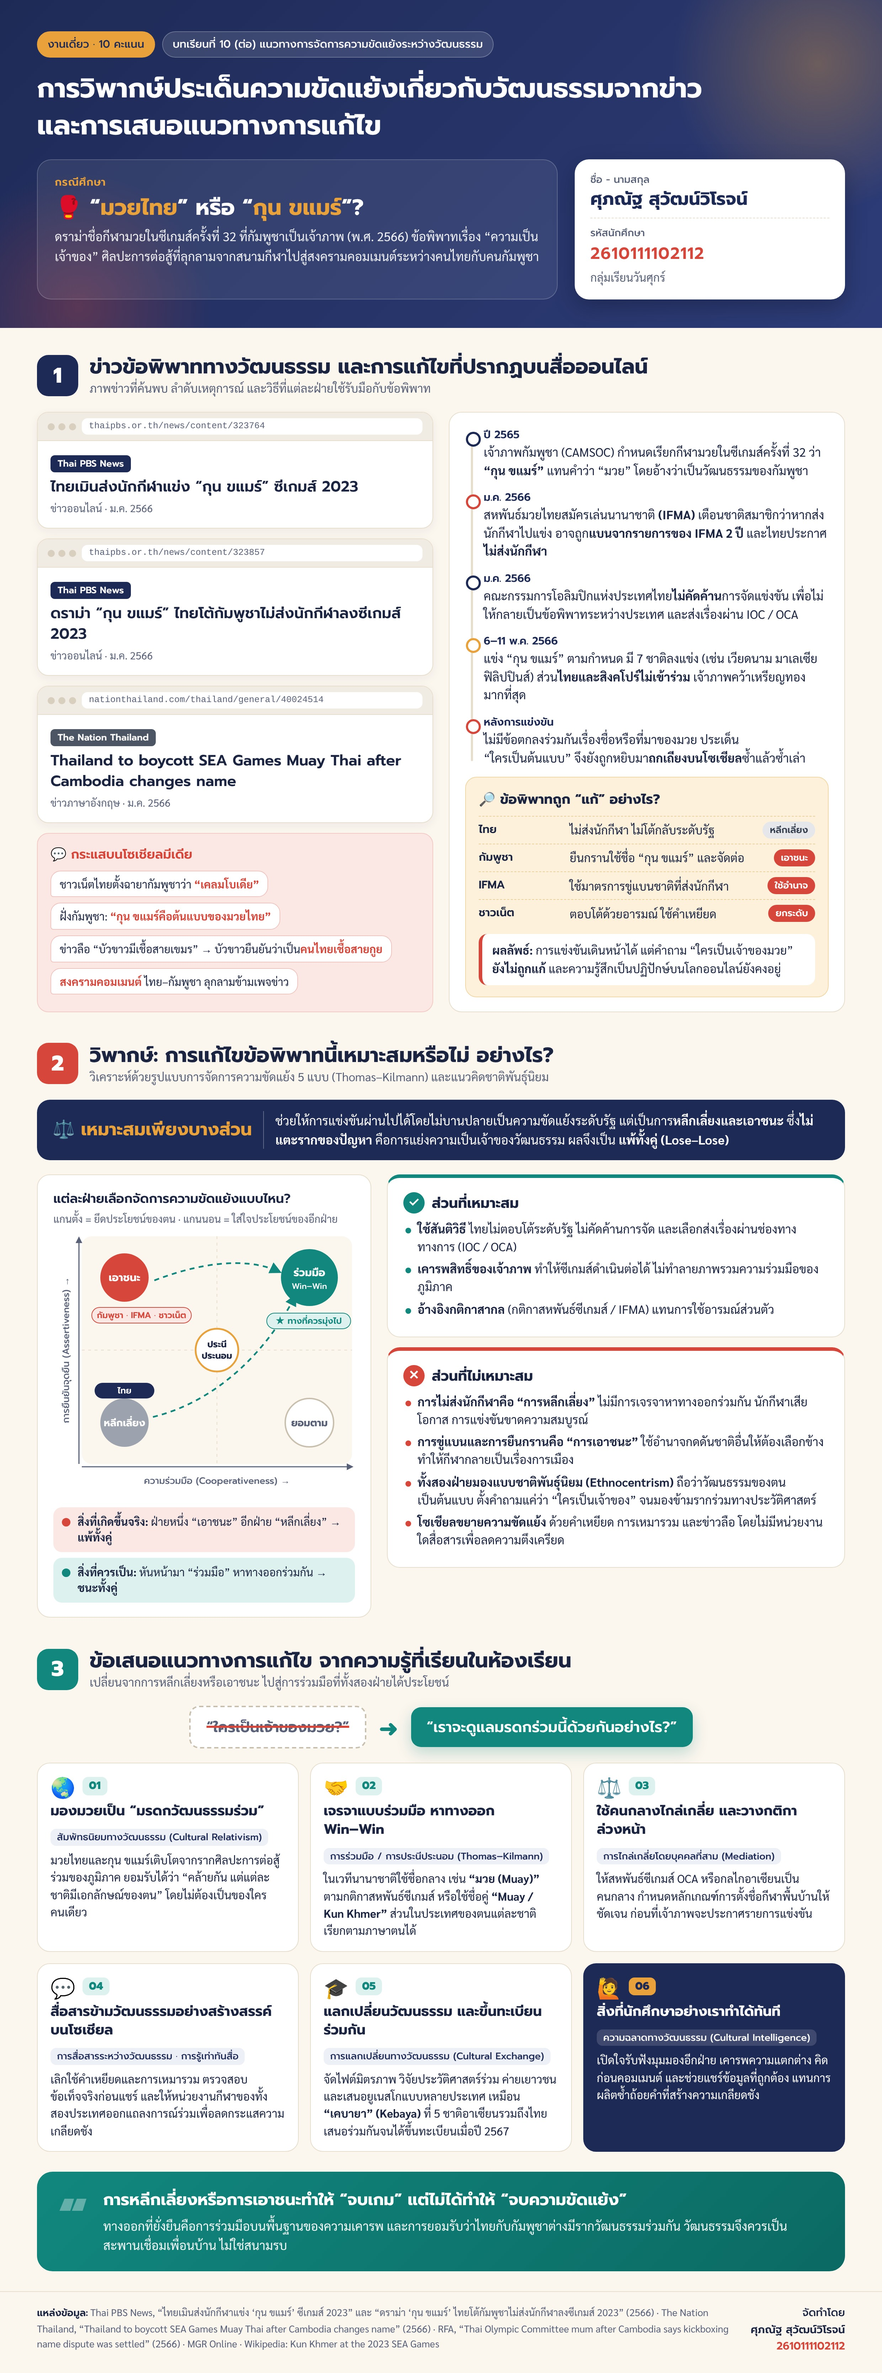
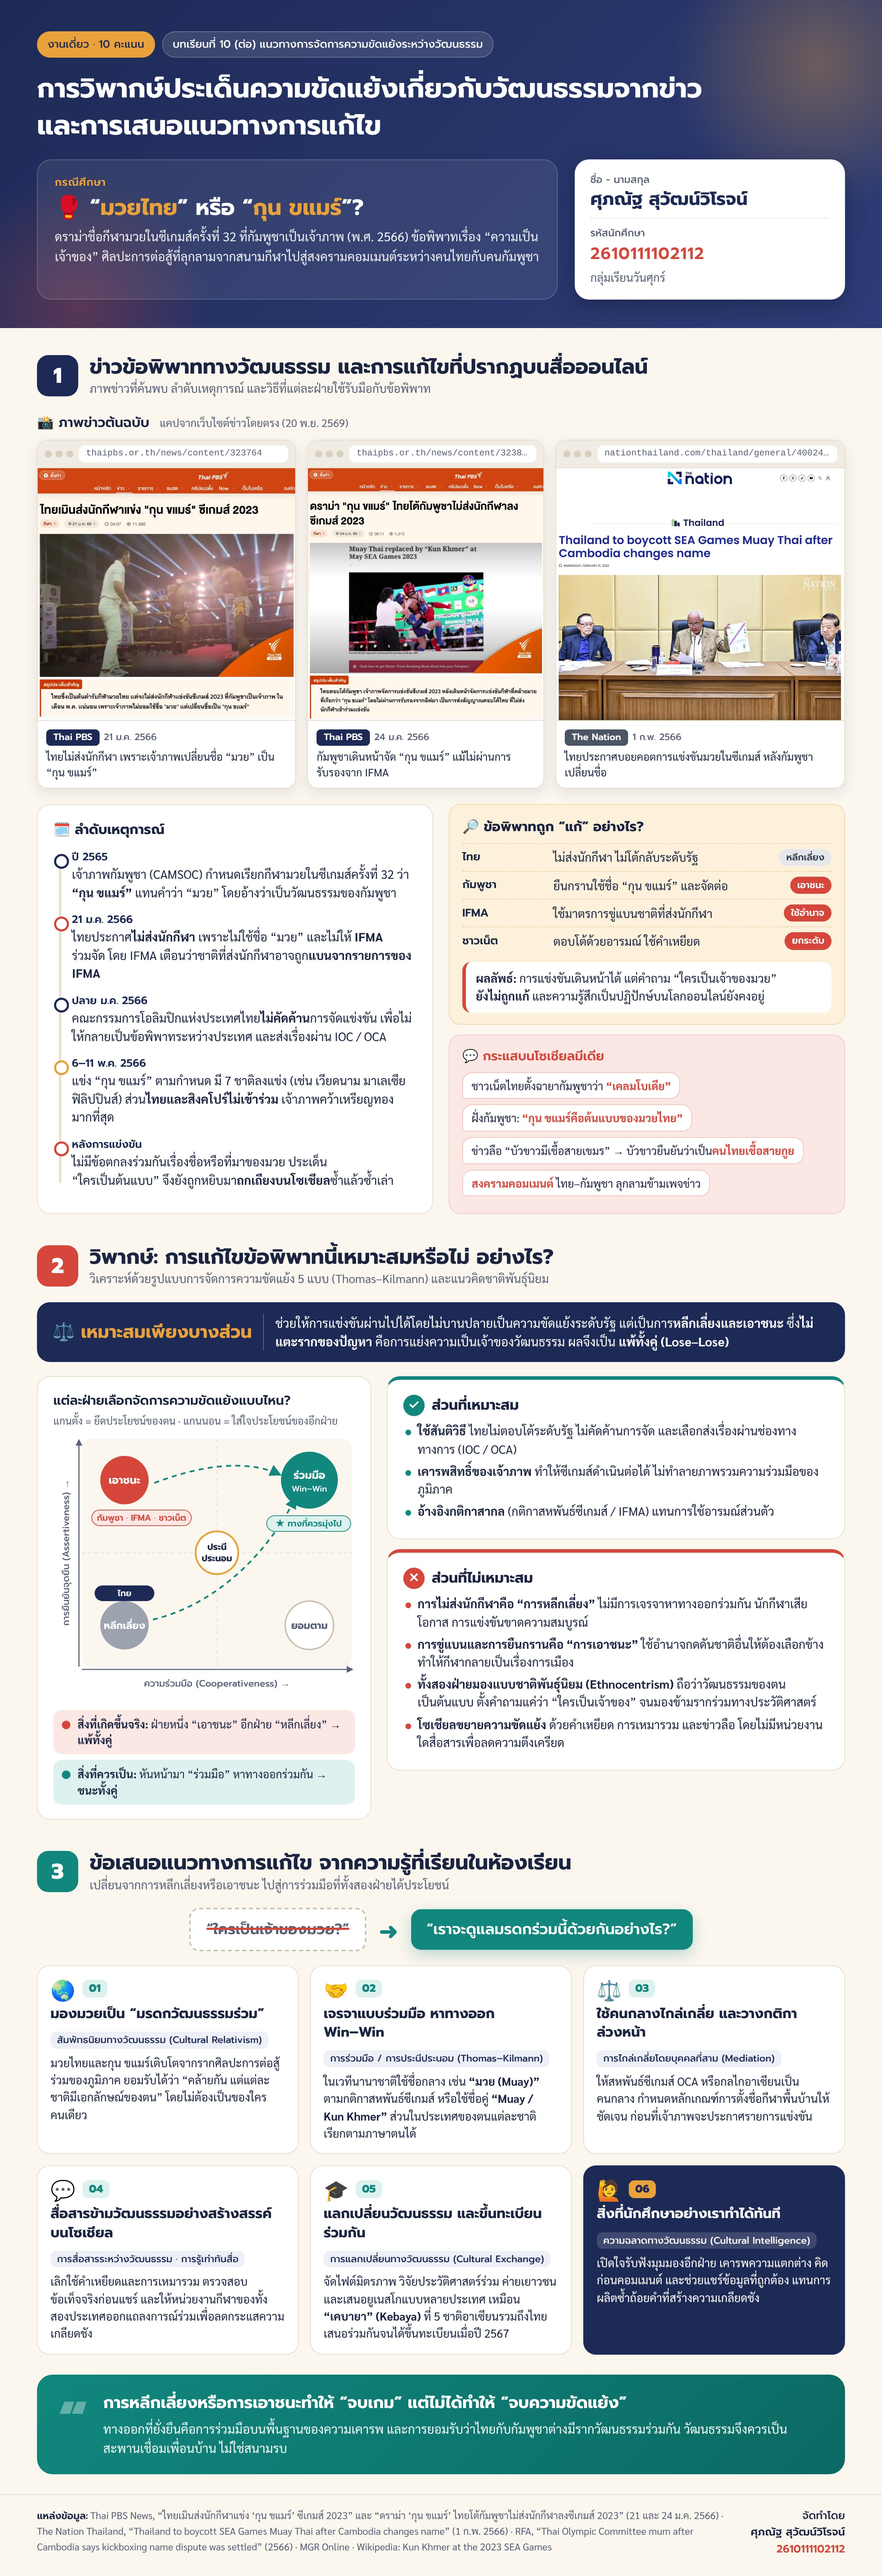
Embed original news screenshots in the infographic
Section 1 now shows real captures of the two Thai PBS articles and The
Nation article (with publication dates) instead of rebuilt headline
cards. The timeline and source dates now match the articles.

Claude-Session: https://claude.ai/code/session_017dBuLpb8sEtwMwFXtjzYeb

diff --git a/culture-conflict-project/index.html b/culture-conflict-project/index.html
@@ -65,6 +65,17 @@
   .bubble{background:#fff;border:1px solid #F0C4BE;border-radius:14px 14px 14px 4px;padding:7px 12px;font-size:15.5px;line-height:1.4}
   .bubble b{color:var(--red)}
 
+  .shots-h{font-family:"Prompt";font-weight:600;font-size:19px;margin-bottom:10px}
+  .shots-h span{font-family:"Sarabun";font-weight:400;font-size:15px;color:var(--muted);margin-left:8px}
+  .shots{display:flex;gap:16px;align-items:flex-start;margin-bottom:22px}
+  .shot{min-width:0;background:#fff;border:1px solid var(--line);border-radius:14px;overflow:hidden;box-shadow:0 6px 18px rgba(27,36,64,.10)}
+  .shot img{display:block;width:100%;height:auto;border-bottom:1px solid var(--line)}
+  .shot .bar{display:flex;align-items:center;gap:8px;padding:7px 10px;background:#F1ECE3;border-bottom:1px solid var(--line);font-size:12px;color:var(--muted)}
+  .shot figcaption{padding:10px 12px 12px;font-size:15px;line-height:1.45}
+  .shot .src{margin:0 6px 4px 0}
+  .shot .dt{font-family:"Prompt";font-size:13px;color:var(--muted)}
+  .col-h{font-family:"Prompt";font-weight:700;font-size:19px;margin-bottom:12px}
+  .how{margin-top:0}
   /* timeline */
   .tl{position:relative;padding-left:26px}
   .tl::before{content:"";position:absolute;left:8px;top:8px;bottom:8px;width:3px;background:var(--line);border-radius:3px}
@@ -73,7 +84,7 @@
   .ev.r::before{border-color:var(--red)} .ev.g::before{border-color:var(--gold)}
   .ev .d{font-family:"Prompt";font-weight:600;font-size:15px;color:var(--navy)}
   .ev .x{font-size:17px;line-height:1.5}
-  .how{margin-top:6px;background:var(--gold-soft);border:1px solid #F2D7A6;border-radius:16px;padding:16px 18px}
+  .how{background:var(--gold-soft);border:1px solid #F2D7A6;border-radius:16px;padding:16px 18px}
   .how .h{font-family:"Prompt";font-weight:700;font-size:19px;margin-bottom:8px}
   .row{display:grid;grid-template-columns:118px 1fr auto;gap:10px;align-items:center;padding:7px 0;border-top:1px dashed #EBCF9C;font-size:16.5px;line-height:1.4}
   .row:first-of-type{border-top:none}
@@ -175,57 +186,40 @@
     </div>
   </div>
 
-  <div class="grid2">
-    <!-- left: news -->
-    <div class="news-wrap">
-      <div class="clip">
-        <div class="bar"><span class="dots"><i></i><i></i><i></i></span><span class="url">thaipbs.or.th/news/content/323764</span></div>
-        <div class="body">
-          <span class="src">Thai PBS News</span>
-          <h3>ไทยเมินส่งนักกีฬาแข่ง “กุน ขแมร์” ซีเกมส์ 2023</h3>
-          <div class="meta">ข่าวออนไลน์ · ม.ค. 2566</div>
-        </div>
-      </div>
-      <div class="clip">
-        <div class="bar"><span class="dots"><i></i><i></i><i></i></span><span class="url">thaipbs.or.th/news/content/323857</span></div>
-        <div class="body">
-          <span class="src">Thai PBS News</span>
-          <h3>ดราม่า “กุน ขแมร์” ไทยโต้กัมพูชาไม่ส่งนักกีฬาลงซีเกมส์ 2023</h3>
-          <div class="meta">ข่าวออนไลน์ · ม.ค. 2566</div>
-        </div>
-      </div>
-      <div class="clip">
-        <div class="bar"><span class="dots"><i></i><i></i><i></i></span><span class="url">nationthailand.com/thailand/general/40024514</span></div>
-        <div class="body">
-          <span class="src alt">The Nation Thailand</span>
-          <h3>Thailand to boycott SEA Games Muay Thai after Cambodia changes name</h3>
-          <div class="meta">ข่าวภาษาอังกฤษ · ม.ค. 2566</div>
-        </div>
-      </div>
-      <div class="social">
-        <div class="h">💬 กระแสบนโซเชียลมีเดีย</div>
-        <div class="bubbles">
-          <span class="bubble">ชาวเน็ตไทยตั้งฉายากัมพูชาว่า <b>“เคลมโบเดีย”</b></span>
-          <span class="bubble">ฝั่งกัมพูชา: <b>“กุน ขแมร์คือต้นแบบของมวยไทย”</b></span>
-          <span class="bubble">ข่าวลือ “บัวขาวมีเชื้อสายเขมร” → บัวขาวยืนยันว่าเป็น<b>คนไทยเชื้อสายกูย</b></span>
-          <span class="bubble"><b>สงครามคอมเมนต์</b> ไทย–กัมพูชา ลุกลามข้ามเพจข่าว</span>
-        </div>
-      </div>
-    </div>
+  <div class="shots-h">📸 ภาพข่าวต้นฉบับ <span>แคปจากเว็บไซต์ข่าวโดยตรง (20 พ.ย. 2569)</span></div>
+  <div class="shots">
+    <figure class="shot" style="flex:1.022 1 0">
+      <div class="bar"><span class="dots"><i></i><i></i><i></i></span><span class="url">thaipbs.or.th/news/content/323764</span></div>
+      <img src="img/thaipbs_323764.jpg" alt="Thai PBS: ไทยเมินส่งนักกีฬาแข่ง กุน ขแมร์ ซีเกมส์ 2023">
+      <figcaption><span class="src">Thai PBS</span><span class="dt">21 ม.ค. 2566</span><div>ไทยไม่ส่งนักกีฬา เพราะเจ้าภาพเปลี่ยนชื่อ “มวย” เป็น “กุน ขแมร์”</div></figcaption>
+    </figure>
+    <figure class="shot" style="flex:0.933 1 0">
+      <div class="bar"><span class="dots"><i></i><i></i><i></i></span><span class="url">thaipbs.or.th/news/content/323857</span></div>
+      <img src="img/thaipbs_323857.jpg" alt="Thai PBS: ดราม่า กุน ขแมร์ ไทยโต้กัมพูชาไม่ส่งนักกีฬาลงซีเกมส์ 2023">
+      <figcaption><span class="src">Thai PBS</span><span class="dt">24 ม.ค. 2566</span><div>กัมพูชาเดินหน้าจัด “กุน ขแมร์” แม้ไม่ผ่านการรับรองจาก IFMA</div></figcaption>
+    </figure>
+    <figure class="shot" style="flex:1.143 1 0">
+      <div class="bar"><span class="dots"><i></i><i></i><i></i></span><span class="url">nationthailand.com/thailand/general/40024514</span></div>
+      <img src="img/nation_40024514.jpg" alt="The Nation: Thailand to boycott SEA Games Muay Thai after Cambodia changes name">
+      <figcaption><span class="src alt">The Nation</span><span class="dt">1 ก.พ. 2566</span><div>ไทยประกาศบอยคอตการแข่งขันมวยในซีเกมส์ หลังกัมพูชาเปลี่ยนชื่อ</div></figcaption>
+    </figure>
+  </div>
 
-    <!-- right: timeline + how -->
+  <div class="grid2">
+    <!-- left: timeline -->
     <div class="card">
+      <div class="col-h">🗓 ลำดับเหตุการณ์</div>
       <div class="tl">
         <div class="ev">
           <div class="d">ปี 2565</div>
           <div class="x">เจ้าภาพกัมพูชา (CAMSOC) กำหนดเรียกกีฬามวยในซีเกมส์ครั้งที่ 32 ว่า <b>“กุน ขแมร์”</b> แทนคำว่า “มวย” โดยอ้างว่าเป็นวัฒนธรรมของกัมพูชา</div>
         </div>
         <div class="ev r">
-          <div class="d">ม.ค. 2566</div>
-          <div class="x">สหพันธ์มวยไทยสมัครเล่นนานาชาติ <b>(IFMA)</b> เตือนชาติสมาชิกว่าหากส่งนักกีฬาไปแข่ง อาจถูก<b>แบนจากรายการของ IFMA 2 ปี</b> และไทยประกาศ<b>ไม่ส่งนักกีฬา</b></div>
+          <div class="d">21 ม.ค. 2566</div>
+          <div class="x">ไทยประกาศ<b>ไม่ส่งนักกีฬา</b> เพราะไม่ใช้ชื่อ “มวย” และไม่ให้ <b>IFMA</b> <span class="nw">ร่วมจัด</span> โดย IFMA เตือนว่าชาติที่ส่งนักกีฬาอาจถูก<b>แบนจากรายการของ IFMA</b></div>
         </div>
         <div class="ev">
-          <div class="d">ม.ค. 2566</div>
+          <div class="d">ปลาย ม.ค. 2566</div>
           <div class="x">คณะกรรมการโอลิมปิกแห่งประเทศไทย<b>ไม่คัดค้าน</b>การจัดแข่งขัน เพื่อไม่ให้กลายเป็นข้อพิพาทระหว่างประเทศ และส่งเรื่องผ่าน IOC / OCA</div>
         </div>
         <div class="ev g">
@@ -237,14 +231,26 @@
           <div class="x">ไม่มีข้อตกลงร่วมกันเรื่องชื่อหรือที่มาของมวย ประเด็น <span class="nw">“ใครเป็นต้นแบบ”</span> จึงยังถูกหยิบมา<b>ถกเถียงบนโซเชียล</b>ซ้ำแล้วซ้ำเล่า</div>
         </div>
       </div>
+    </div>
 
+    <!-- right: how + social -->
+    <div class="news-wrap">
       <div class="how">
         <div class="h">🔎 ข้อพิพาทถูก “แก้” อย่างไร?</div>
         <div class="row"><span class="who">ไทย</span><span>ไม่ส่งนักกีฬา ไม่โต้กลับระดับรัฐ</span><span class="tag t-av">หลีกเลี่ยง</span></div>
         <div class="row"><span class="who">กัมพูชา</span><span>ยืนกรานใช้ชื่อ “กุน ขแมร์” และจัดต่อ</span><span class="tag t-co">เอาชนะ</span></div>
         <div class="row"><span class="who">IFMA</span><span>ใช้มาตรการขู่แบนชาติที่ส่งนักกีฬา</span><span class="tag t-co">ใช้อำนาจ</span></div>
         <div class="row"><span class="who">ชาวเน็ต</span><span>ตอบโต้ด้วยอารมณ์ ใช้คำเหยียด</span><span class="tag t-co">ยกระดับ</span></div>
-        <div class="result"><b>ผลลัพธ์:</b> การแข่งขันเดินหน้าได้ แต่คำถาม “ใครเป็นเจ้าของมวย” <b>ยังไม่ถูกแก้</b> และความรู้สึกเป็นปฏิปักษ์บนโลกออนไลน์ยังคงอยู่</div>
+        <div class="result"><b>ผลลัพธ์:</b> การแข่งขันเดินหน้าได้ แต่คำถาม “ใครเป็นเจ้าของมวย” <b class="nw">ยังไม่ถูกแก้</b> และความรู้สึกเป็นปฏิปักษ์บนโลกออนไลน์ยังคงอยู่</div>
+      </div>
+      <div class="social">
+        <div class="h">💬 กระแสบนโซเชียลมีเดีย</div>
+        <div class="bubbles">
+          <span class="bubble">ชาวเน็ตไทยตั้งฉายากัมพูชาว่า <b>“เคลมโบเดีย”</b></span>
+          <span class="bubble">ฝั่งกัมพูชา: <b>“กุน ขแมร์คือต้นแบบของมวยไทย”</b></span>
+          <span class="bubble">ข่าวลือ “บัวขาวมีเชื้อสายเขมร” → บัวขาวยืนยันว่าเป็น<b>คนไทยเชื้อสายกูย</b></span>
+          <span class="bubble"><b>สงครามคอมเมนต์</b> ไทย–กัมพูชา ลุกลามข้ามเพจข่าว</span>
+        </div>
       </div>
     </div>
   </div>
@@ -415,7 +421,7 @@
 </div>
 
 <footer>
-  <div><b>แหล่งข้อมูล:</b> Thai PBS News, “ไทยเมินส่งนักกีฬาแข่ง ‘กุน ขแมร์’ ซีเกมส์ 2023” และ “ดราม่า ‘กุน ขแมร์’ ไทยโต้กัมพูชาไม่ส่งนักกีฬาลงซีเกมส์ 2023” (2566) · The Nation Thailand, “Thailand to boycott SEA Games Muay Thai after Cambodia changes name” (2566) · RFA, “Thai Olympic Committee mum after Cambodia says kickboxing name dispute was settled” (2566) · MGR Online · Wikipedia: Kun Khmer at the 2023 SEA Games</div>
+  <div><b>แหล่งข้อมูล:</b> Thai PBS News, “ไทยเมินส่งนักกีฬาแข่ง ‘กุน ขแมร์’ ซีเกมส์ 2023” และ “ดราม่า ‘กุน ขแมร์’ ไทยโต้กัมพูชาไม่ส่งนักกีฬาลงซีเกมส์ 2023” (21 และ 24 ม.ค. 2566) · The Nation Thailand, “Thailand to boycott SEA Games Muay Thai after Cambodia changes name” (1 ก.พ. 2566) · RFA, “Thai Olympic Committee mum after Cambodia says kickboxing name dispute was settled” (2566) · MGR Online · Wikipedia: Kun Khmer at the 2023 SEA Games</div>
   <div class="sign">จัดทำโดย<br><b>ศุภณัฐ สุวัฒน์วิโรจน์</b><br><span class="id">2610111102112</span></div>
 </footer>
 
